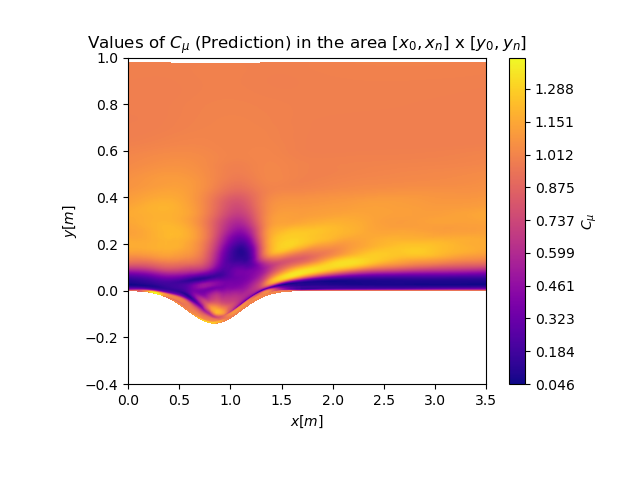
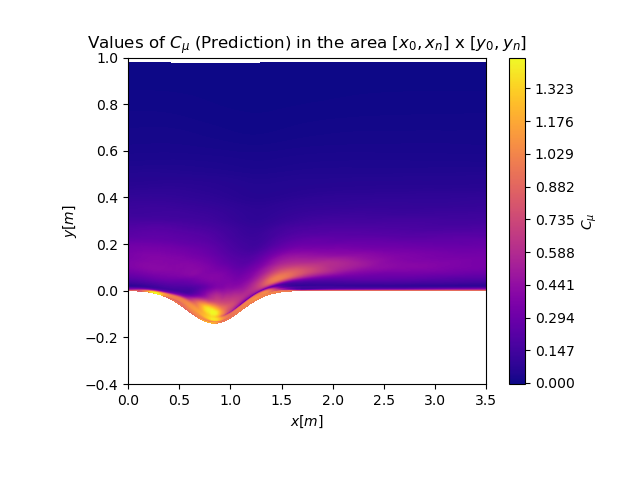
städning

diff --git a/pl_vect2d-1_namnfix.py b/pl_vect2d-1_namnfix.py
@@ -184,7 +184,7 @@ omega = eps_DNS2d / k2d / 0.09
 
 # Compute C_my and ||duidxj|| to train model
 cmy_DNS = np.array(-uv2d / (k2d * (dudy + dvdx)) * omega)
-cmy_DNS = np.where(abs(dudy + dvdx) < 1, 1, cmy_DNS)
+# cmy_DNS = np.where(abs(dudy + dvdx) < 1, 1, cmy_DNS)
 cmy_DNS = np.where(cmy_DNS > 0, cmy_DNS, 1)
 cmy_DNS = np.where(cmy_DNS <= 3, cmy_DNS, 1)
 
@@ -469,13 +469,14 @@ c_k_omega = [1] * len(cmy_DNS_2.flatten())
 # R2 score: This is pronounced as R-squared, and this score refers to the coefficient of determination.
 # This tells us how well the unknown samples will be predicted by our model.
 # The best possible score is 1.0, but the score can be negative as well.
+print("------------------------------------")
 print("Errors with machine-learning model:")
 print("Mean absolute error =", round(sm.mean_absolute_error(cmy_DNS_2.flatten(), y_svr.flatten()), 2))
 print("Mean squared error =", round(sm.mean_squared_error(cmy_DNS_2.flatten(), y_svr.flatten()), 2))
 print("Median absolute error =", round(sm.median_absolute_error(cmy_DNS_2.flatten(), y_svr.flatten()), 2))
 print("Explain variance score =", round(sm.explained_variance_score(cmy_DNS_2.flatten(), y_svr.flatten()), 2))
 print("R2 score =", round(sm.r2_score(cmy_DNS_2.flatten(), y_svr.flatten()), 2))
-
+print("------------------------------------")
 print("Error with standard model:")
 print("Mean absolute error =",
       round(sm.mean_absolute_error(cmy_DNS_2.flatten(), [1] * len(cmy_DNS_2.flatten())), 2))
@@ -608,7 +609,7 @@ plt.savefig("pictures/dvdy_in_domain.png")
 
 fig10, ax10 = plt.subplots()
 plt.subplots_adjust(left=0.20, bottom=0.20)
-fig10.colorbar(plt.contourf(xp2d_2, yp2d_2, y_svr, 1000, cmap=plt.get_cmap("plasma")), ax=ax10, label="$C_\mu$")  # y_svr
+fig10.colorbar(plt.contourf(xp2d_2, yp2d_2, y_svr, 1000, cmap=plt.get_cmap("plasma")), ax=ax10, label="$C_\mu$")
 plt.axis([0, 3.5, -0.4, 1])
 plt.title("Values of $C_\mu$ (Prediction) in the area $[x_0,x_n]$ x $[y_0,y_n]$")
 plt.xlabel("$x [m]$")
